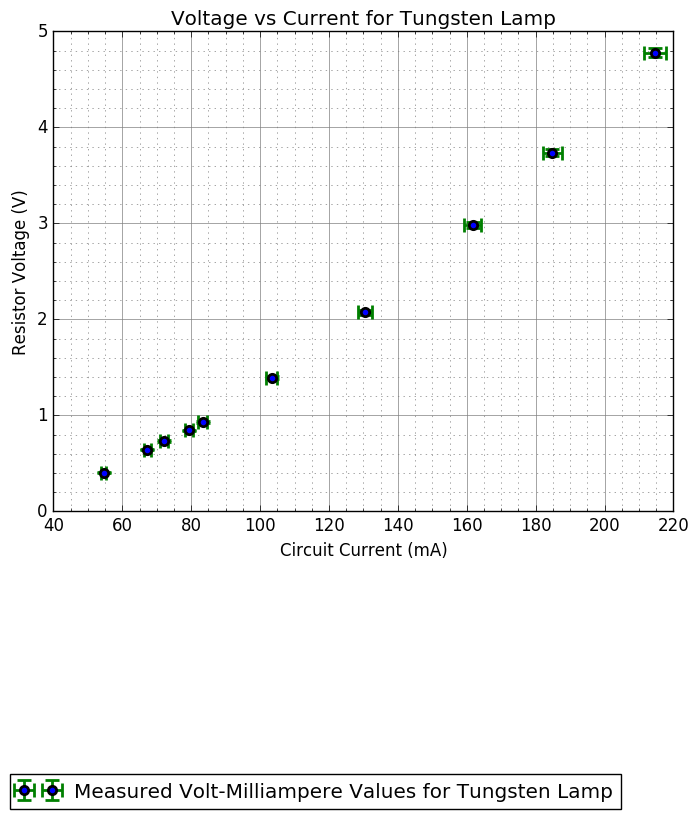
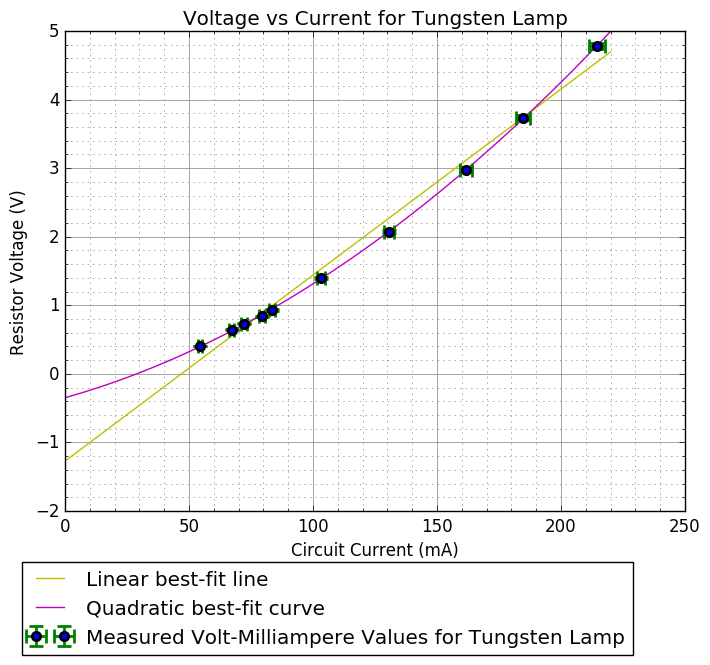
Added linear and quadratic curve fitting to tungsten graph, and wrote resulting curve functions to console

Changed region(s): [[0.0, 0.0, 0.9914, 0.9925]]

diff --git a/Phys222Lab2/tungsten-graph.py b/Phys222Lab2/tungsten-graph.py
@@ -9,6 +9,8 @@ graph setup below
 # import data tables from .csv files
 ps_volt, ps_current, mm_volt, mm_volt_uct, mm_current, mm_current_uct = np.loadtxt("./resistor-tungsten-data.csv", delimiter=",", skiprows=2, unpack=True)
 
+# create x value coords for best fit line/curve
+sample_points = np.linspace(0,220,100)
 
 new_graph = pyp.figure()
 
@@ -22,7 +24,18 @@ pyp.minorticks_on()
 plotting commands below
 '''
 
-# data plotting here
+# best fit line coefficients 
+line_coefs = np.polyfit(mm_current, mm_volt, 1)
+
+# best fit quadratic curve coefficients
+quad_coefs = np.polyfit(mm_current, mm_volt, 2)
+
+# plot line/curve fits 
+pyp.plot(sample_points, np.polyval(line_coefs, sample_points), 'y', label="Linear best-fit line")
+pyp.plot(sample_points, np.polyval(quad_coefs, sample_points), 'm', label="Quadratic best-fit curve")
+# print out coefficient values formatted as line/curve equation
+print("Line equation is: y = %f * x + %f" % (line_coefs[0], line_coefs[1]))
+print("Quadratic equation is: y = %f * x^2 + %f * x + %f" % (quad_coefs[0], quad_coefs[1], quad_coefs[2]))
 
 # plot measured data for each resistor
 pyp.errorbar(mm_current, mm_volt, xerr=mm_current_uct, yerr=mm_volt_uct, ecolor='g', mfc='b', ls='None', marker='o', label="Measured Volt-Milliampere Values for Tungsten Lamp", capsize=5, elinewidth=2, markeredgewidth=2)
@@ -32,7 +45,7 @@ pyp.ylabel('Resistor Voltage (V)')
 pyp.xlabel('Circuit Current (mA)')
 
 # add an automatically generated legend for each plot type 
-leg = pyp.legend(bbox_to_anchor=(-0.07, -0.62), loc=3, borderaxespad=0.)
+leg = pyp.legend(bbox_to_anchor=(-0.07, -0.3), loc=3, borderaxespad=0.)
 
 # graph title
 pyp.title("Voltage vs Current for Tungsten Lamp")
